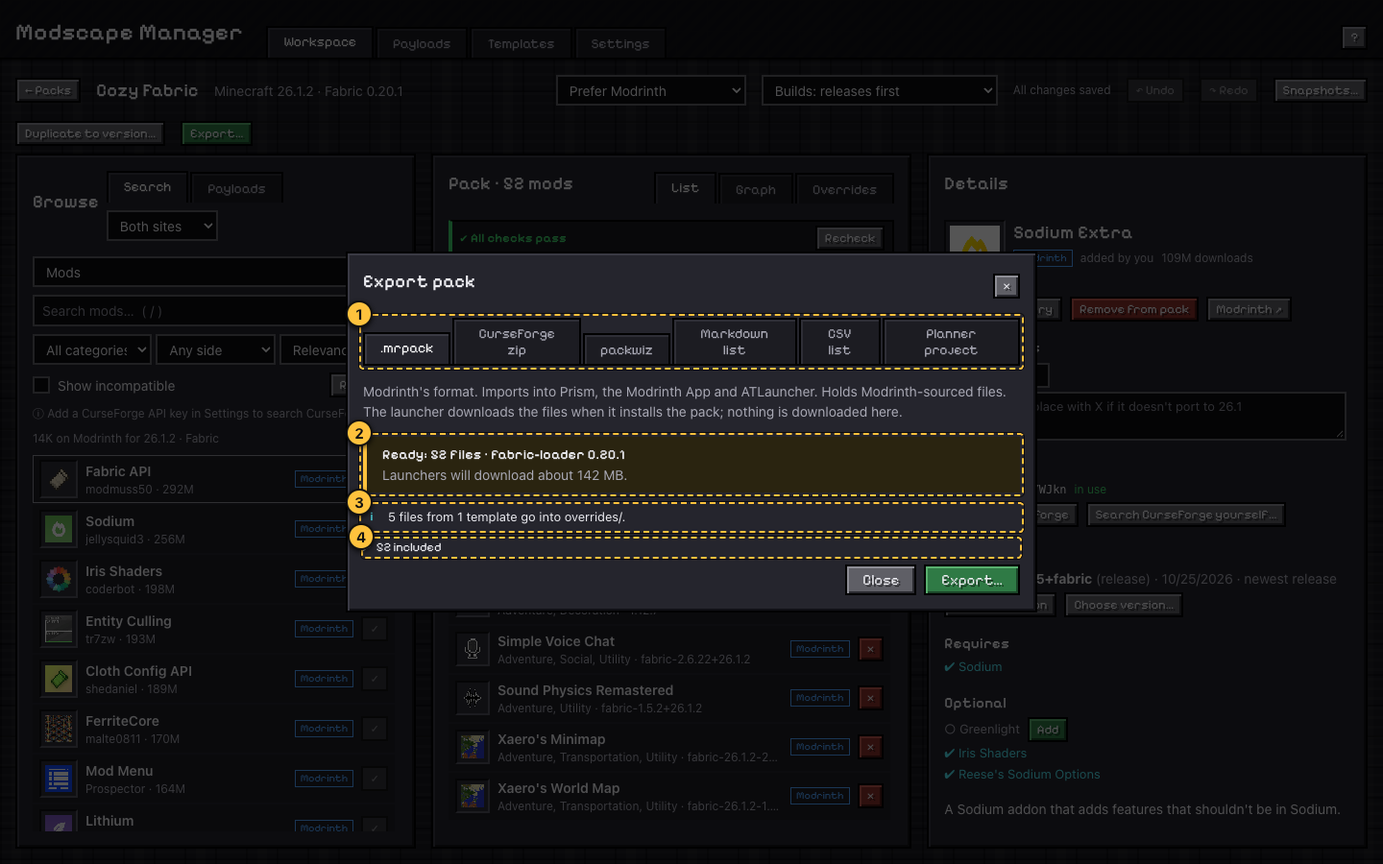
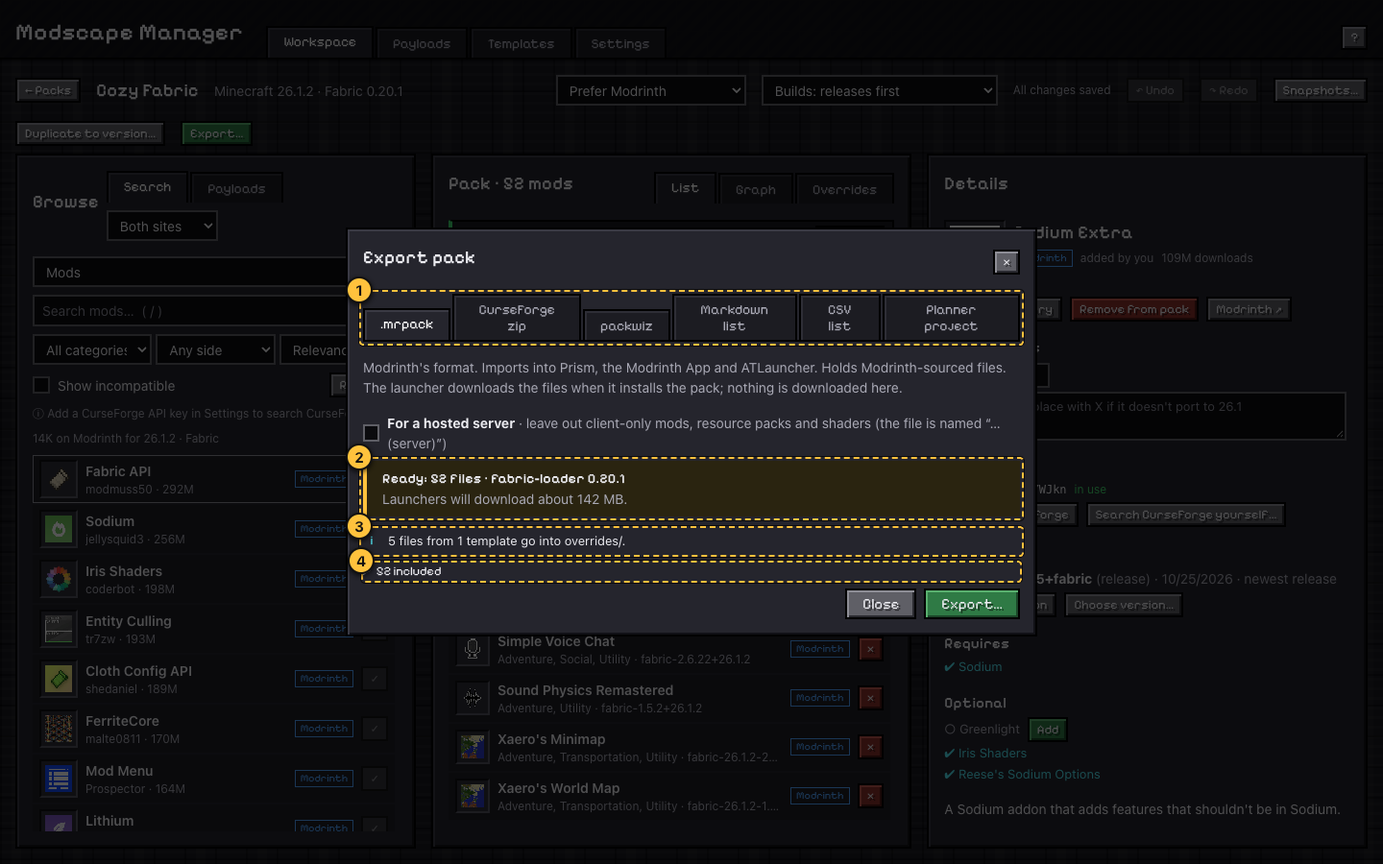
M13: server variant ("For a hosted server" exports)
Every export format (except the project file) can be made for a hosted
server: client-only mods (as Modrinth marks them), resource packs, shaders,
dependencies only those needed, and client-only override files are left
out, each listed with the reason. Mods CurseForge has no side data for are
kept and listed for checking. The pack is named "<name> (server)".

Changed region(s): [[0.25, 0.2489, 0.75, 0.7467]]

diff --git a/src/screens/workspace/ExportDialog.tsx b/src/screens/workspace/ExportDialog.tsx
@@ -14,7 +14,7 @@ const FORMAT_INFO: Record<ExportFormat, string> = {
   csv: "A spreadsheet-friendly list: name, type, version, site, link, category, and why it's in the pack.",
 };
 const DONE_HINT: Partial<Record<ExportFormat, string>> = {
-  mrpack: "In Prism: Add Instance → Import → pick this file.",
+  mrpack: "In Prism: Add Instance → Import → pick this file. For a server: upload it to your host's modpack installer, or use a tool like mrpack-install.",
   curseforgeZip: "In Prism: Add Instance → Import → pick this file.",
   packwiz: "Serve or commit this folder; packwiz-installer reads pack.toml.",
 };
@@ -28,21 +28,23 @@ export function ExportDialog({ pack, onClose, onFixes, onSaveProject }: {
   const [busy, setBusy] = useState(false);
   const [done, setDone] = useState<string | null>(null);
   const [showFiles, setShowFiles] = useState(false);
+  // For a hosted server (M13): leave out client-only mods, resource packs and shaders.
+  const [server, setServer] = useState(false);
 
   // Re-plan whenever the format or the pack changes (fixes update the pack).
-  const sig = JSON.stringify([tab, pack.loaderVersion, pack.channelPolicy, Object.entries(pack.entries).map(([k, e]) => [k, e.ref, e.fileId])]);
+  const sig = JSON.stringify([tab, server, pack.loaderVersion, pack.channelPolicy, Object.entries(pack.entries).map(([k, e]) => [k, e.ref, e.fileId])]);
   useEffect(() => {
     if (tab === "project") return;
     let live = true;
     setPlan(null); setError(null); setDone(null);
-    api.exportPlan(pack, tab).then((p) => live && setPlan(p), (e) => live && setError(e));
+    api.exportPlan(pack, tab, { server }).then((p) => live && setPlan(p), (e) => live && setError(e));
     return () => { live = false; };
   }, [sig]); // eslint-disable-line react-hooks/exhaustive-deps
 
   const doExport = async () => {
     if (tab === "project") return;
     setBusy(true); setError(null);
-    try { const path = await api.exportPack(pack, tab); if (path) setDone(path); }
+    try { const path = await api.exportPack(pack, tab, { server }); if (path) setDone(path); }
     catch (e) { setError(e as AppError); }
     finally { setBusy(false); }
   };
@@ -63,6 +65,10 @@ export function ExportDialog({ pack, onClose, onFixes, onSaveProject }: {
         ) : (
           <div className="stack">
             <p className="muted">{FORMAT_INFO[tab]}{tab === "markdown" || tab === "csv" ? "" : " The launcher downloads the files when it installs the pack; nothing is downloaded here."}</p>
+            <label className="mc-check" title="Leaves out mods Modrinth marks as client-only, resource packs, shaders, dependencies only those needed, and client-only override files (options.txt, *-client configs)">
+              <input type="checkbox" checked={server} onChange={(e) => setServer(e.target.checked)} />
+              <span><strong>For a hosted server</strong> <span className="muted">· leave out client-only mods, resource packs and shaders (the file is named “… (server)”)</span></span>
+            </label>
             {error && <ErrorNotice error={error} />}
             {!plan && !error && <p className="muted">Checking every mod's file…</p>}
             {plan && (

diff --git a/src/api.ts b/src/api.ts
@@ -108,7 +108,8 @@ export type ExportFormat = "mrpack" | "curseforgeZip" | "packwiz" | "markdown" |
 export interface ExportFile { key: string; name: string; source: Source; kind: EntryKindT; path: string; projectId: string; fileId: string; versionNumber: string; url: string; size: number; distributionBlocked: boolean }
 export interface Excluded { key: string; name: string; reason: string }
 export interface ExportProblem { severity: Severity; message: string; fixes: Fix[]; fixLabel?: string | null }
-export interface ExportPlan { format: ExportFormat; files: ExportFile[]; excluded: Excluded[]; problems: ExportProblem[]; loaderLabel: string; canExport: boolean; overrides: number }
+export interface ExportPlan { format: ExportFormat; files: ExportFile[]; excluded: Excluded[]; problems: ExportProblem[]; loaderLabel: string; canExport: boolean; overrides: number; server: boolean }
+export interface ExportOptions { server?: boolean }
 
 // ---------- override templates (M9) ----------
 export interface TemplateFile { path: string; size: number; editable: boolean; modHint: string | null }
@@ -220,8 +221,8 @@ export const api = {
   payloadUpdates: (pack: Pack) => call<PayloadUpdate[]>("payload_updates", { pack }),
   exportPayload: (id: string) => call<string | null>("export_payload", { id }),
   importPayload: () => call<SavedPayload | null>("import_payload"),
-  exportPlan: (pack: Pack, format: ExportFormat) => call<ExportPlan>("export_plan", { pack, format }),
-  exportPack: (pack: Pack, format: ExportFormat) => call<string | null>("export_pack", { pack, format }),
+  exportPlan: (pack: Pack, format: ExportFormat, options: ExportOptions = {}) => call<ExportPlan>("export_plan", { pack, format, options }),
+  exportPack: (pack: Pack, format: ExportFormat, options: ExportOptions = {}) => call<string | null>("export_pack", { pack, format, options }),
   importPackFile: () => call<ImportReport | null>("import_pack_file"),
   importPrismInstance: () => call<ImportReport | null>("import_prism_instance"),
   cacheStats: () => call<CacheStats>("cache_stats"),

diff --git a/src-tauri/src/export.rs b/src-tauri/src/export.rs
@@ -101,6 +101,8 @@ pub struct ExportPlan {
     pub can_export: bool,
     /// Files override templates put in `overrides/` (filled in by `add_overrides`).
     pub overrides: usize,
+    /// Planned for a hosted server.
+    pub server: bool,
 }
 
 fn loader_name(l: Loader) -> &'static str {
@@ -177,9 +179,61 @@ fn host_ok(url: &str) -> bool {
     reqwest::Url::parse(url).ok().and_then(|u| u.host_str().map(|h| MRPACK_HOSTS.contains(&h))).unwrap_or(false) && url.starts_with("https://")
 }
 
+/// Export switches beyond the format.
+#[derive(Debug, Clone, Copy, Default, PartialEq, Eq, Deserialize)]
+#[serde(rename_all = "camelCase", default)]
+pub struct ExportOptions {
+    /// For a hosted server (M13): client-only mods, resource packs and shaders
+    /// (and dependencies only they needed) are left out.
+    pub server: bool,
+}
+
+/// What a server export leaves out, by entry key, with the reason. A mod is
+/// client-only when Modrinth says it can't run on a server; resource packs and
+/// shaders always are. A dependency stays if anything kept still needs it.
+pub fn server_exclusions(pack: &Pack) -> std::collections::BTreeMap<String, String> {
+    use crate::model::Reason;
+    let client_only = |e: &crate::model::PackEntry| matches!(e.kind, EntryKind::Resourcepack | EntryKind::Shader) || e.display.server_side.as_deref() == Some("unsupported");
+    let mut kept: std::collections::HashSet<&String> = pack.entries.iter().filter(|(_, e)| e.reason != Reason::Dependency && !client_only(e)).map(|(k, _)| k).collect();
+    loop {
+        let more: Vec<&String> = pack
+            .entries
+            .iter()
+            .filter(|(k, e)| e.reason == Reason::Dependency && !kept.contains(k) && !client_only(e))
+            .filter(|(_, e)| e.pulled_in_by.is_empty() || e.pulled_in_by.iter().any(|p| kept.contains(p)))
+            .map(|(k, _)| k)
+            .collect();
+        if more.is_empty() {
+            break;
+        }
+        kept.extend(more);
+    }
+    pack.entries
+        .iter()
+        .filter(|(k, _)| !kept.contains(k))
+        .map(|(k, e)| {
+            let why = match e.kind {
+                EntryKind::Resourcepack => "Resource pack: client-side, not needed on a server.".to_string(),
+                EntryKind::Shader => "Shader: client-side, not needed on a server.".to_string(),
+                _ if e.display.server_side.as_deref() == Some("unsupported") => "Client-only: Modrinth says it doesn't run on a server.".to_string(),
+                _ => {
+                    let by: Vec<String> = e.pulled_in_by.iter().filter_map(|p| pack.entries.get(p)).map(|p| p.display.name.clone()).collect();
+                    format!("Only needed by client-side mods ({}).", by.join(", "))
+                }
+            };
+            (k.clone(), why)
+        })
+        .collect()
+}
+
 /// Builds the pre-flight plan. Picks files exactly like the checks do (pins,
 /// channel policy), so what you export is what you've been looking at.
 pub async fn plan_export(pack: &Pack, cat: &dyn Catalog, format: Format) -> ExportPlan {
+    plan_export_with(pack, cat, format, ExportOptions::default()).await
+}
+
+pub async fn plan_export_with(pack: &Pack, cat: &dyn Catalog, format: Format, opts: ExportOptions) -> ExportPlan {
+    let server_out = if opts.server { server_exclusions(pack) } else { Default::default() };
     let mc = pack.mc_version.as_str();
     let loader = pack.loader;
     let want = match format {
@@ -194,6 +248,10 @@ pub async fn plan_export(pack: &Pack, cat: &dyn Catalog, format: Format) -> Expo
 
     let mut todo = Vec::new();
     for (k, e) in &pack.entries {
+        if let Some(why) = server_out.get(k) {
+            excluded.push(Excluded { key: k.clone(), name: e.display.name.clone(), reason: why.clone() });
+            continue;
+        }
         let has_want = match want {
             Source::Modrinth => e.mod_ref.modrinth_id.is_some(),
             Source::Curseforge => e.mod_ref.curseforge_id.is_some(),
@@ -268,7 +326,8 @@ pub async fn plan_export(pack: &Pack, cat: &dyn Catalog, format: Format) -> Expo
             excluded.push(Excluded { key: k, name, reason: "The site gave no hash for this file, which packwiz needs.".into() });
             continue;
         }
-        let env = Some(export_env(e.display.server_side.as_deref()));
+        // A server export only holds what the server runs.
+        let env = Some(if opts.server { Env { client: "required".into(), server: "required".into() } } else { export_env(e.display.server_side.as_deref()) });
         files.push(ExportFile {
             key: k,
             name,
@@ -379,7 +438,35 @@ pub async fn plan_export(pack: &Pack, cat: &dyn Catalog, format: Format) -> Expo
         Format::Packwiz => format!("{} {}", packwiz_loader_key(loader), plain_loader_version(pack)),
         _ => format!("{} {}", mrpack_loader_key(loader), plain_loader_version(pack)),
     };
-    ExportPlan { format, files, excluded, problems, loader_label, can_export, overrides: 0 }
+    if opts.server {
+        let unknown: Vec<String> = files.iter().filter(|f| f.kind == EntryKind::Mod && pack.entries.get(&f.key).is_some_and(|e| e.display.server_side.is_none())).map(|f| f.name.clone()).collect();
+        if !unknown.is_empty() {
+            problems.push(Problem {
+                severity: Severity::Warning,
+                message: format!(
+                    "{} mod{} {} no client/server information (CurseForge doesn't list it), so {} kept. Check {} on a server: {}.",
+                    unknown.len(),
+                    if unknown.len() == 1 { "" } else { "s" },
+                    if unknown.len() == 1 { "has" } else { "have" },
+                    if unknown.len() == 1 { "it's" } else { "they're" },
+                    if unknown.len() == 1 { "it runs" } else { "they run" },
+                    unknown.join(", ")
+                ),
+                fixes: vec![],
+                fix_label: None,
+            });
+        }
+        if !server_out.is_empty() {
+            problems.push(Problem {
+                severity: Severity::Info,
+                message: format!("For a hosted server: left out {} client-side file{} (listed under \"not included\").", server_out.len(), if server_out.len() == 1 { "" } else { "s" }),
+                fixes: vec![],
+                fix_label: None,
+            });
+        }
+        problems.sort_by(|a, b| a.severity.cmp(&b.severity));
+    }
+    ExportPlan { format, files, excluded, problems, loader_label, can_export, overrides: 0, server: opts.server }
 }
 
 fn version_label(pack: &Pack) -> String {
@@ -787,6 +874,36 @@ mod tests {
         block(add(f, &mut pack, "sodium-extra", &mut keys));
         block(add(f, &mut pack, "modmenu", &mut keys));
         pack
+    }
+
+    #[test]
+    fn server_exports_leave_client_side_things_out() {
+        use crate::model::{tests::entry, Reason};
+        let mut pack = pack_for("1.21.1", Loader::Fabric);
+        let mut add = |k: &str, name: &str, server: Option<&str>, reason: Reason, kind: EntryKind, by: &[&str]| {
+            let mut e = entry(Some(k), None, name, "t");
+            e.display.server_side = server.map(String::from);
+            e.reason = reason;
+            e.kind = kind;
+            e.pulled_in_by = by.iter().map(|s| s.to_string()).collect();
+            pack.entries.insert(k.into(), e);
+        };
+        add("sodium", "Sodium", Some("unsupported"), Reason::User, EntryKind::Mod, &[]);
+        add("lithium", "Lithium", Some("optional"), Reason::User, EntryKind::Mod, &[]);
+        add("menu", "Mod Menu", Some("unsupported"), Reason::User, EntryKind::Mod, &[]);
+        add("clothlib", "Cloth Config", Some("optional"), Reason::Dependency, EntryKind::Mod, &["menu"]);
+        add("fapi", "Fabric API", Some("optional"), Reason::Dependency, EntryKind::Mod, &["menu", "lithium"]);
+        add("fa", "Fresh Animations", Some("unsupported"), Reason::User, EntryKind::Resourcepack, &[]);
+        add("terra", "Terralith", Some("required"), Reason::User, EntryKind::Datapack, &[]);
+        let out = server_exclusions(&pack);
+        let mut left: Vec<&str> = out.keys().map(|k| k.as_str()).collect();
+        left.sort();
+        assert_eq!(left, vec!["clothlib", "fa", "menu", "sodium"], "{out:?}");
+        assert!(out["clothlib"].contains("Mod Menu"), "says who needed it");
+        // Override files a server never reads.
+        for (p, client) in [("options.txt", true), ("servers.dat", true), ("config/jei/jei-client.toml", true), ("config/create-common.toml", false), ("kubejs/server_scripts/a.js", false), ("shaderpacks/x.txt", true)] {
+            assert_eq!(crate::templates::is_client_only_file(p), client, "{p}");
+        }
     }
 
     #[test]

diff --git a/src-tauri/src/lib.rs b/src-tauri/src/lib.rs
@@ -100,8 +100,26 @@ impl AppState {
 
     /// Export pre-flight including override templates.
     pub async fn export_plan(&self, pack: &Pack, format: export::Format) -> export::ExportPlan {
-        let mut plan = export::plan_export(pack, &self.catalog(), format).await;
+        self.export_plan_with(pack, format, export::ExportOptions::default()).await
+    }
+
+    pub async fn export_plan_with(&self, pack: &Pack, format: export::Format, opts: export::ExportOptions) -> export::ExportPlan {
+        let mut plan = export::plan_export_with(pack, &self.catalog(), format, opts).await;
         export::add_overrides(&mut plan, pack, &self.templates, &store::now_iso());
+        if opts.server {
+            if let Ok(all) = self.templates.export_files(pack) {
+                let dropped: Vec<String> = all.into_iter().map(|(p, _)| p).filter(|p| templates::is_client_only_file(p)).collect();
+                if !dropped.is_empty() {
+                    plan.overrides = plan.overrides.saturating_sub(dropped.len());
+                    plan.problems.push(export::Problem {
+                        severity: resolve::Severity::Info,
+                        message: format!("Left out {} client-only override file{}: {}.", dropped.len(), if dropped.len() == 1 { "" } else { "s" }, dropped.join(", ")),
+                        fixes: vec![],
+                        fix_label: None,
+                    });
+                }
+            }
+        }
         plan
     }
 
@@ -496,18 +514,24 @@ async fn plan_port(state: St<'_>, pack: Pack, target: port::PortTarget) -> AppRe
 
 // ---------------- export / import ----------------
 #[tauri::command]
-async fn export_plan(state: St<'_>, pack: Pack, format: export::Format) -> AppResult<export::ExportPlan> {
-    Ok(state.export_plan(&pack, format).await)
+async fn export_plan(state: St<'_>, pack: Pack, format: export::Format, options: Option<export::ExportOptions>) -> AppResult<export::ExportPlan> {
+    Ok(state.export_plan_with(&pack, format, options.unwrap_or_default()).await)
 }
 
 /// Re-plans (so the file matches the pack right now), asks where to save, writes.
 #[tauri::command]
-async fn export_pack(app: tauri::AppHandle, state: St<'_>, pack: Pack, format: export::Format) -> AppResult<Option<String>> {
-    let plan = state.export_plan(&pack, format).await;
+async fn export_pack(app: tauri::AppHandle, state: St<'_>, pack: Pack, format: export::Format, options: Option<export::ExportOptions>) -> AppResult<Option<String>> {
+    let opts = options.unwrap_or_default();
+    let plan = state.export_plan_with(&pack, format, opts).await;
+    // A server export is named so it can't be mistaken for the client pack.
+    let mut pack = pack;
+    if opts.server {
+        pack.name = format!("{} (server)", pack.name.trim());
+    }
     if !plan.can_export {
         return Err(AppError::Invalid("Fix the errors in the pre-flight check before exporting.".into()));
     }
-    let overrides = state.templates.export_files(&pack)?;
+    let overrides = state.templates.export_files_for(&pack, opts.server)?;
     if format == export::Format::Packwiz {
         // A new folder named after the pack, inside the folder you pick.
         let Some(fp) = app.dialog().file().set_title("Choose where to create the packwiz folder").blocking_pick_folder() else { return Ok(None) };

diff --git a/src-tauri/examples/dev_bridge.rs b/src-tauri/examples/dev_bridge.rs
@@ -73,13 +73,17 @@ async fn dispatch(st: &AppState, cmd: &str, a: &Value) -> Result<Value, Value> {
             let force_pin = a.get("forcePin").and_then(Value::as_bool).unwrap_or(false);
             to_val(resolve::plan_add_kind(&pack, &arg::<String>(a, "projectId")?, kind.unwrap_or_default(), pin.as_deref(), force_pin, for_key.as_deref(), alt.as_deref(), &st.catalog(), false, &arg::<String>(a, "addedAt")?, || uuid::Uuid::new_v4().to_string()).await)
         }
-        "export_plan" => Ok(serde_json::to_value(st.export_plan(&arg(a, "pack")?, arg(a, "format")?).await).unwrap()),
+        "export_plan" => {
+            let opts: modscape_manager_lib::export::ExportOptions = a.get("options").and_then(|o| serde_json::from_value(o.clone()).ok()).unwrap_or_default();
+            Ok(serde_json::to_value(st.export_plan_with(&arg(a, "pack")?, arg(a, "format")?, opts).await).unwrap())
+        }
         // Dev only: write an export / import a file at a path inside test-env/.
         "dev_export_to" => {
             let pack: model::Pack = arg(a, "pack")?;
             let path = test_env_path(&arg::<String>(a, "path")?)?;
-            let plan = st.export_plan(&pack, arg(a, "format")?).await;
-            let overrides = st.templates.export_files(&pack).map_err(|e| serde_json::to_value(e).unwrap())?;
+            let opts: modscape_manager_lib::export::ExportOptions = a.get("options").and_then(|o| serde_json::from_value(o.clone()).ok()).unwrap_or_default();
+            let plan = st.export_plan_with(&pack, arg(a, "format")?, opts).await;
+            let overrides = st.templates.export_files_for(&pack, opts.server).map_err(|e| serde_json::to_value(e).unwrap())?;
             use modscape_manager_lib::export::{self, Format};
             let fmt: Format = arg(a, "format")?;
             let r = match fmt {

diff --git a/src-tauri/src/templates.rs b/src-tauri/src/templates.rs
@@ -157,6 +157,21 @@ pub fn mod_hint(path: &str) -> Option<String> {
     Some(name)
 }
 
+/// Override files a dedicated server never reads: the client's own settings
+/// (`options*.txt`, `servers.dat`), resource/shader packs, and configs named
+/// for the client (`jei-client.toml`, `sodium-client.json`…).
+pub fn is_client_only_file(path: &str) -> bool {
+    let p = path.to_ascii_lowercase();
+    let name = p.rsplit('/').next().unwrap_or(&p);
+    if !p.contains('/') && (name.starts_with("options") && name.ends_with(".txt") || name == "servers.dat") {
+        return true;
+    }
+    if p.starts_with("resourcepacks/") || p.starts_with("shaderpacks/") {
+        return true;
+    }
+    (p.starts_with("config/") || p.starts_with("defaultconfigs/")) && name.contains("client")
+}
+
 pub fn norm(s: &str) -> String {
     s.chars().filter(|c| c.is_ascii_alphanumeric()).collect::<String>().to_ascii_lowercase()
 }
@@ -771,6 +786,12 @@ impl Library {
             }
         }
         Ok(Overview { attached, missing, merged: merged.into_values().collect(), clashes, updates, mods: mods.into_values().collect() })
+    }
+
+    /// `export_files` for a server export: client-only files left out.
+    pub fn export_files_for(&self, pack: &Pack, server: bool) -> AppResult<Vec<(String, PathBuf)>> {
+        let all = self.export_files(pack)?;
+        Ok(if server { all.into_iter().filter(|(p, _)| !is_client_only_file(p)).collect() } else { all })
     }
 
     /// Files for `overrides/`, winners only: (relative path, file on disk).

diff --git a/CLAUDE.md b/CLAUDE.md
@@ -84,7 +84,7 @@ Stop after each milestone and wait for AdaghastTheMad's review before starting t
 13. **Server variant** (nice-to-have). Includes a "for a hosted server" export that leaves client-only mods out.
 14. **Live Scan** (extra stretch goal, owner idea Nov 24). Opt-in: fetch a pack's jars (or point at a Prism instance that's been imported but not run, read-only) into a local scan folder, read each jar's own metadata (mods.toml / neoforge.mods.toml / fabric.mod.json / quilt.mod.json, jar-in-jar libraries), and flag missing requirements and version-ranged incompatibilities the sites don't list, with fixes. No Minecraft install needed. `scripts/check-jar-metadata.py` is the working prototype.
 
-**Status:** M1–M7 done (committed). M8 (payloads) done (committed). M9 (override templates) done (committed). M10 (polish) done (committed). M11 (other content types) done (committed; owner imported it in Prism). M1–M12 done: the base version is complete (owner, Nov 24). Stretch goals left: M13 server variant, M14 Live Scan. Linux build: `scripts/linux-build.sh` / docs/LINUX.md (not yet run on Linux). Linux Mint check still pending.
+**Status:** M1–M7 done (committed). M8 (payloads) done (committed). M9 (override templates) done (committed). M10 (polish) done (committed). M11 (other content types) done (committed; owner imported it in Prism). M1–M12 done: the base version is complete (owner, Nov 24). M13 (server variant) built, awaiting owner review; M14 (Live Scan) next. Linux build: `scripts/linux-build.sh` / docs/LINUX.md (not yet run on Linux). Linux Mint check still pending.
 
 ## Running it
 - `scripts/setup.sh` (or `--check`) → `scripts/dev.sh` (hot reload). Rust comes from rustup in `~/.cargo` (dev.sh sources `~/.cargo/env`).
@@ -164,6 +164,7 @@ Stop after each milestone and wait for AdaghastTheMad's review before starting t
   - Search: `SearchQuery.kind` → Modrinth `project_type:` facet / CurseForge `classId`; the loader filter (`mod_loader()`) and side filter apply to mods only; categories per kind (`categories_for`). List and graph put each kind in its own group (`@resourcepack` etc. in `grouping.ts`).
   - **packwiz** (`export::packwiz_files` / `write_packwiz`): mixed sources (each entry from its preferred site). `pack.toml` (pack-format packwiz:1.1.0, `[versions]` minecraft + loader), `index.toml` (sha256 of every file, `metafile = true` for `.pw.toml`), one `<slug>.pw.toml` per file in the folder it installs to (Modrinth: url + sha512 + `[update.modrinth]`; CurseForge: sha1 + `mode = "metadata:curseforge"` + `[update.curseforge]`), override templates at the root. Written into a new `<pack> packwiz` folder inside the folder you pick. **Markdown/CSV lists** (`list_markdown`, `list_csv`): name, type, version, site, page link, category, reason.
   - Live check (Nov 24): Fresh Animations, Complementary Reimagined, Terralith as datapack (+Paxi, YUNG's API, Cloth Config, Fabric API) and Iris on 1.21.1 Fabric: `.mrpack` exported, all 9 files downloaded and verified into the right folders, re-import kept the kinds; packwiz hashes chain (test).
+- **Server variant (M13):** `ExportOptions { server }` on every export (`export_plan` / `export_pack` take `options`). `export::server_exclusions`: resource packs, shaders and mods Modrinth marks `server_side: unsupported` are left out, plus dependencies none of the kept entries still pull in (fixed point over `pulledInBy`; deps with no parents stay); datapacks and Paxi stay. CF-only mods (no side data) stay with a warning listing them. Every file's env is server-required. Override files `templates::is_client_only_file` (top-level `options*.txt`, `servers.dat`, `resourcepacks/`, `shaderpacks/`, config/defaultconfigs names containing "client") are dropped and listed. The written pack is named "<name> (server)". Live check: the 52-mod Fabric fixture goes from 50 to 29 files (Sodium, Iris, Mod Menu… out; Text Placeholder API out because only Mod Menu needed it).
 - **Prism round-trip testing:** `scripts/test-prism.sh create|start|import FILE|launch NAME|status|logs NAME|--clean` drives the installed Prism with `--dir test-env/prism` (refuses real Prism paths). The owner signs in to the test Prism themselves. Fixture packs: `cd src-tauri && cargo run --example build_fixture_packs` → `tests/fixtures/packs/*.planner.json` + `test-env/exports/*.mrpack`; `cargo run --example verify_export -- <file.mrpack>` downloads every file into `test-env/downloads/` and checks size/sha1/sha512.
 - **Dev bridge (dev only, never shipped):** `cd src-tauri && cargo run --example dev_bridge` serves the real core on `127.0.0.1:1421`; point the Vite page's `window.__TAURI_INTERNALS__.invoke` at it (snippet in `examples/dev_bridge.rs`) to exercise the UI against real Rust in a plain browser. Packs live in memory; no keychain (CurseForge is deliberately off: `disable_keychain`) and no dialogs.
 - React state updaters must stay pure (StrictMode runs them twice): generate ids/timestamps before calling `update()`.

diff --git a/README.md b/README.md
@@ -134,7 +134,7 @@ Three panes: **Browse** on the left, **the pack** in the middle (as a list, a gr
 | # | | |
 |:-:|---|---|
 | 1 | **Format** | `.mrpack`, CurseForge zip, packwiz, Markdown list, CSV list, or the planner project file. |
-| 2 | **Pre-flight** | Ready or not, how many files, the loader, and roughly how much the launcher will download. |
+| 2 | **Pre-flight** | Ready or not, how many files, the loader, and roughly how much the launcher will download. Tick **For a hosted server** above it to leave out client-only mods (as Modrinth marks them), resource packs, shaders, dependencies only those needed, and client-only override files; the export is named "… (server)". |
 | 3 | **Problems** | Mods set to the other site (with a *Switch all* fix), distribution-blocked files, template notes. Errors block the export; warnings don't. |
 | 4 | **Included / not included** | Every file and where it goes (`mods/`, `resourcepacks/`, `shaderpacks/`, `config/paxi/datapacks/`). |
 
@@ -211,6 +211,8 @@ macOS uses ⌘, Linux uses Ctrl. Backspace or Delete removes the selected mod.
 | **packwiz** | Both sites mixed (one `.pw.toml` per file), overrides at the root | packwiz-installer, git-based packs |
 | **Markdown / CSV** | A readable list: name, type, version, site, link, category | Pack pages, spreadsheets |
 | **Planner project** | Everything (`.json`) | Backups, sharing, git |
+
+Every format except the project file also has a **hosted server** variant. Mods CurseForge has no side information for are kept, and listed so you can check them.
 
 Datapacks go to Paxi's global folder (`config/paxi/datapacks/`) in `.mrpack` and packwiz exports. In CurseForge zips the launcher chooses: Prism puts them in `datapacks/`, which Paxi 5.1.3+ also loads.
 
